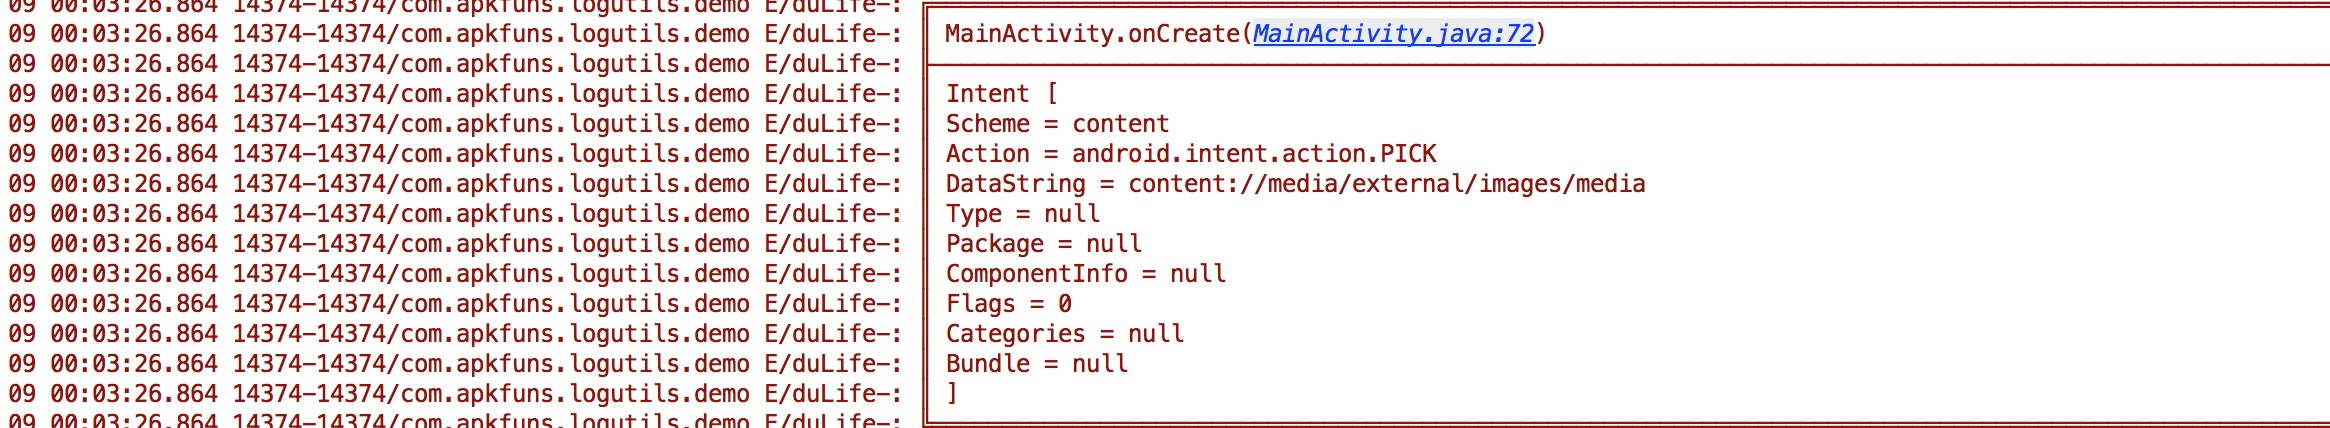
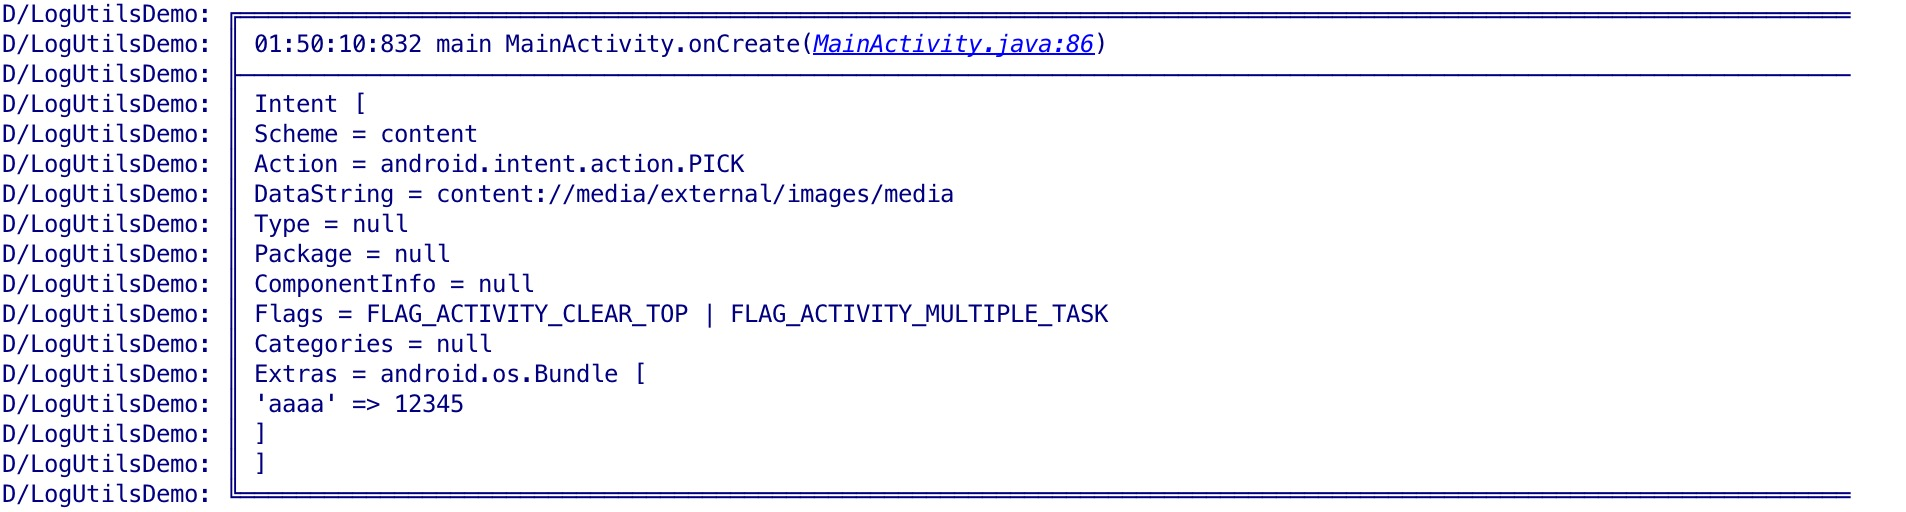
个性化设置tag

Changed region(s): [[0.0, 0.0, 1.0, 1.0]]

diff --git a/library/src/main/java/com/apkfuns/logutils/pattern/LogPattern.java b/library/src/main/java/com/apkfuns/logutils/pattern/LogPattern.java
@@ -73,9 +73,14 @@ public abstract class LogPattern {
                 } else {
                     String stackTrace = caller.toString();
                     stackTrace = stackTrace.substring(stackTrace.lastIndexOf('('), stackTrace.length());
-                    callerString = String.format("%s#%s:%s", caller.getClassName(), caller.getMethodName(), stackTrace);
+                    callerString = String.format("%s.%s%s", caller.getClassName(), caller.getMethodName(), stackTrace);
                 }
-                return Utils.shortenClassName(callerString, callerCount, callerLength);
+//                System.out.println(callerString + callerCount + callerLength);
+                try {
+                    return Utils.shortenClassName(callerString, callerCount, callerLength);
+                } catch (Exception e) {
+                    return e.getMessage();
+                }
             }
         }
 
@@ -168,7 +173,7 @@ public abstract class LogPattern {
         private final Pattern DATE_PATTERN = Pattern.compile("%date(\\{(.*?)\\})?");
         private final Pattern CONCATENATE_PATTERN = Pattern.compile("%([+-]?\\d+)?(\\.([+-]?\\d+))?\\(");
         private final Pattern DATE_PATTERN_SHORT = Pattern.compile("%d(\\{(.*?)\\})?");
-        private final Pattern CALLER_PATTERN_SHORT = Pattern.compile("%([+-]?\\d+)?(\\.([+-]?\\d+))?C(\\{([+-]?\\d+)?(\\.([+-]?\\d+))?\\})?");
+        private final Pattern CALLER_PATTERN_SHORT = Pattern.compile("%([+-]?\\d+)?(\\.([+-]?\\d+))?c(\\{([+-]?\\d+)?(\\.([+-]?\\d+))?\\})?");
         private final Pattern THREAD_NAME_PATTERN = Pattern.compile("%([+-]?\\d+)?(\\.([+-]?\\d+))?thread");
         private final Pattern THREAD_NAME_PATTERN_SHORT = Pattern.compile("%([+-]?\\d+)?(\\.([+-]?\\d+))?t");
 

diff --git a/laboratory/src/main/java/com/apkfuns/logutils/laboratory/TestActivity.java b/laboratory/src/main/java/com/apkfuns/logutils/laboratory/TestActivity.java
@@ -5,14 +5,13 @@ import android.os.Bundle;
 import android.view.View;
 
 import com.noveogroup.android.log.Log;
-import com.noveogroup.android.log.LoggerManager;
 
 import org.slf4j.Logger;
 import org.slf4j.LoggerFactory;
 
-public class MainActivity extends AppCompatActivity {
+public class TestActivity extends AppCompatActivity {
 
-    private static final Logger SLF_LOGGER = LoggerFactory.getLogger(MainActivity.class);
+    private static final Logger SLF_LOGGER = LoggerFactory.getLogger(TestActivity.class);
 
     @Override
     protected void onCreate(Bundle savedInstanceState) {

diff --git a/app/src/main/java/com/apkfuns/logutils/demo/activity/MainActivity.java b/app/src/main/java/com/apkfuns/logutils/demo/activity/MainActivity.java
@@ -4,6 +4,7 @@ import android.app.Activity;
 import android.content.Intent;
 import android.os.Bundle;
 
+import com.apkfuns.logutils.demo.a.b.Test;
 import com.apkfuns.logutils.demo.helper.Child;
 import com.apkfuns.logutils.demo.helper.DataHelper;
 import com.apkfuns.logutils.LogUtils;
@@ -132,5 +133,7 @@ public class MainActivity extends Activity {
         LogUtils.tag("lalal").xml(DataHelper.getXml());
 
         LogUtils.tag("lalal").e(new FakeBounty());
+
+        Test.a();
     }
 }

diff --git a/library/src/main/java/com/apkfuns/logutils/Logger.java b/library/src/main/java/com/apkfuns/logutils/Logger.java
@@ -130,7 +130,10 @@ class Logger implements Printer {
         String tempTag = localTags.get();
         if (!TextUtils.isEmpty(tempTag)) {
             localTags.remove();
-            return tempTag;
+            if (mLogConfig.isShowBorder()) {
+                return tempTag;
+            }
+            return tempTag + "/" + getTopStackInfo();
         }
         if (!mLogConfig.isShowBorder()) {
             return mLogConfig.getTagPrefix() + "/" + getTopStackInfo();

diff --git a/app/src/main/java/com/apkfuns/logutils/demo/App.java b/app/src/main/java/com/apkfuns/logutils/demo/App.java
@@ -16,7 +16,7 @@ public class App extends Application {
         LogUtils.getLogConfig()
                 .configAllowLog(true)
                 .configTagPrefix("LogUtilsDemo")
-                .configFormatTag("%d{HH:mm:ss:SSS} %t %caller{-5}")
+                .configFormatTag("%d{HH:mm:ss:SSS} %t %c{-5}")
                 .configShowBorders(true)
                 .configLevel(LogLevel.TYPE_VERBOSE)
                 .addParserClass(OkHttpResponseParse.class);

diff --git a/library/src/main/java/com/apkfuns/logutils/utils/Utils.java b/library/src/main/java/com/apkfuns/logutils/utils/Utils.java
@@ -78,7 +78,7 @@ public class Utils {
         return resultString;
     }
 
-    public static String shortenClassName(String className, int count, int maxLength) {
+    public static String shortenClassName(String className, int count, int maxLength) throws Exception {
         className = shortenPackagesName(className, count);
         if (className == null) return null;
         if (maxLength == 0) return className;

diff --git a/app/src/main/java/com/apkfuns/logutils/demo/a/b/Test.java b/app/src/main/java/com/apkfuns/logutils/demo/a/b/Test.java
@@ -1,0 +1,13 @@
+package com.apkfuns.logutils.demo.a.b;
+
+import com.apkfuns.logutils.LogUtils;
+
+/**
+ * Created by pengwei on 16/5/22.
+ */
+public class Test {
+
+    public static void a() {
+        LogUtils.d("abcdeg");
+    }
+}

diff --git a/README.md b/README.md
@@ -5,13 +5,15 @@ More convenient and easy to use android Log manager
 ## 1. Features
 * 支持直接打印数据集合,如List、Set、Map、数组等
 * 全局配置log输出
-* 不需要设置tag
+* 个性化设置Tag
 * 准确显示调用方法、行，快速定位所在文件位置
 * 支持android系统对象Intent、Bundle打印
 
 ## 2. screenshot
 ##### 日志说明
 ![截图](screenshot/screenshot02.png)
+##### 个性化设置Tag
+![截图](screenshot/screenshot08.png)
 ##### 打印数据列表
 ![截图](screenshot/screenshot03.png)
 ##### 打印数组
@@ -80,6 +82,7 @@ configTagPrefix | 日志log的前缀 | String | "LogUtils"
 configShowBorders | 是否显示边界 | boolean | false
 configLevel | 日志显示等级 | LogLevelType | LogLevel.TYPE_VERBOSE
 addParserClass | 自定义对象打印 | Parser | 无 
+configFormatTag | 个性化设置Tag | String | %c{-5}
 
 ##### Demo
 ```java
@@ -87,8 +90,17 @@ LogUtils.getLogConfig()
                 .configAllowLog(true)
                 .configTagPrefix("MyAppName")
                 .configShowBorders(true)
+                .configFormatTag("%d{HH:mm:ss:SSS} %t %c{-5}")
                 .configLevel(LogLevel.TYPE_VERBOSE)
 ```
+
+##### configFormatTag参数详解
+变量 | 简写 | 描述  | 参数 | 示例 | 输出结果
+------- | ------- | -------   | -------  | ------- | ------- 
+%% | 无 | 转义% | 无|%%d|%d
+%date | %d | 当前时间  | 格式化时间,如HH:mm:ss|%d{HH:mm:ss:SSS}|10:00:46:238
+%thread | %t | 当前线程名称 | 无|%t|thread-127
+%caller | %c | 线程信息和类路径  |一般用%c{-5}就好了，用法为%c{整数}或者%caller{整数}，整数为包名路径，如路径为`com.apkfuns.logutils.demo.activity.MainActivity.onCreate(MainActivity.java:135)`,%c{1}输出`com`，以.分割的第一个,如果小于0就是排除前面n个，如%c{-1} ，结果为`apkfuns.logutils.demo.activity.MainActivity.onCreate(MainActivity.java:135)`,|%c{-5}|MainActivity.onCreate(MainActivity.java:135)
 
 ##### 自定义对象打印
 实现Parser<T>接口，并实现parseClassType() 和parseString()方法,再通过addParserClass()配置到LogUtil
@@ -99,7 +111,7 @@ LogUtils.getLogConfig()
 
 ### Gradle
 ```groovy
-compile 'com.apkfuns.logutils:library:1.4.0'
+compile 'com.apkfuns.logutils:library:1.4.2'
 ```
 
 ### Eclipse导入Jar
@@ -145,7 +157,7 @@ click [here](https://github.com/pengwei1024/LogUtils/tree/master/annex) to downl
     - 支持设置临时tag
     - 支持xml打印  
     - 解决[issue 10](https://github.com/pengwei1024/LogUtils/issues/10)内部类问题
-* **1.4.2 (开发中)**
+* **1.4.2 (2016/05/23)**
     - 个性化设置Tag(configFormatTag();)
     
 
